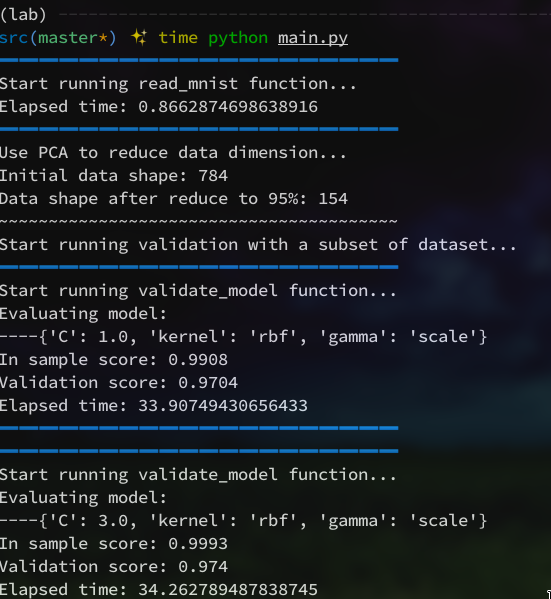
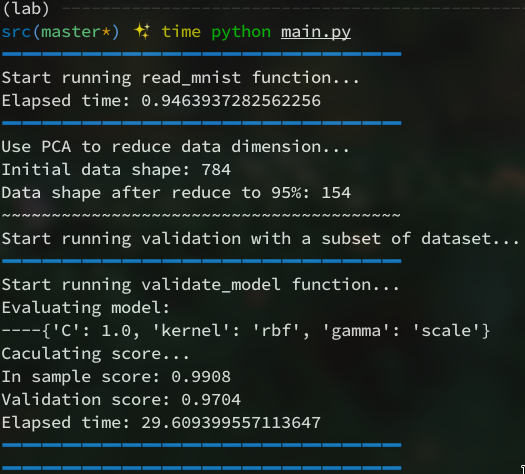
train validation set also

diff --git a/src/main.py b/src/main.py
@@ -44,18 +44,24 @@ for config in configs:
 print(f"The best model with respect to config\n----{best_config}\nwhich have validation score: {best_score}")
 print(f"{'~'*40}\nStart trainning 'best' model after validation with all dataset")
 
+print(f"{'~'*40}\nCombine test set and validation set to train...")
+total_train_X = np.r_[train_X, val_X]
+total_train_y = np.r_[train_y, val_y]
 
 print(f"{'~'*40}\nDeskew image for better result...")
-deskewed_train = deskew_vectorize(train_X)
+deskewed_train = deskew_vectorize(total_train_X)
 deskewed_test = deskew_vectorize(test_X)
-print(f"{'~'*40}\nUse best model to train...")
-print("The final result❓❓🤔🤔🤔")
-score, clf = validate_model(best_config, deskewed_train, y_train, deskewed_test, test_y, 50_000, 10_0000, print_in_sample_score=False)
+
+print("The final result..................🤔🤔🤔❓")
+score, clf = validate_model(best_config, deskewed_train, total_train_y, deskewed_test, test_y, 60_000, 10_000, print_score=False)
 print("===========>", score)
 
 # Plot some missclassify image
+print("About to plot some wrong classify sample, control+C to stop...")
 predict_y = clf.predict(deskewed_test)
 idx = np.argwhere(predict_y != test_y)
+plt.xticks([])
+plt.yticks([])
 for i in idx:
     plt.imshow(test_X[i].reshape(28, 28), cmap="gray")
     plt.title(f"Correct label {test_y[i]}, predicted label {predict_y[i]}")

diff --git a/src/helpers.py b/src/helpers.py
@@ -64,7 +64,7 @@ def pca_fit(X, infomation_presever=.95):
 
 
 @timing
-def validate_model(param, X_train, y_train, X_val, y_val, N_train=10_000, N_val=10_000, print_in_sample_score=True):
+def validate_model(param, X_train, y_train, X_val, y_val, N_train=10_000, N_val=10_000, print_score=True):
     """Validate SVM model"""
     print(f"Evaluating model:\n----{param}")
     X_train = X_train[:N_train]
@@ -73,9 +73,9 @@ def validate_model(param, X_train, y_train, X_val, y_val, N_train=10_000, N_val=
     y_val = y_val[:N_val]
     clf = SVC(**param)
     clf.fit(X_train, y_train)
+    print("Caculating score...")
     score = clf.score(X_val, y_val)
-    print("Caculating score:")
-    if print_in_sample_score:
+    if print_score:
         print("In sample score:", clf.score(X_train, y_train))
-    print("Validation score:", score)
+        print("Validation score:", score)
     return score, clf

diff --git a/README.md b/README.md
@@ -1,5 +1,5 @@
 # SVM for MNIST dataset
-> Simple python implementation with sklearn library for MNIST dataset, which achive more than 98% accuracy
+> Simple python implementation with sklearn library for MNIST dataset, which achive more than 98% accuracy 🎉🎉🎉🎉🎉
 
 ## Fast validation
 We use PCA to reduce input dimension from 784 to 154 but presever 95% information
@@ -8,6 +8,9 @@ We use only a subset of input set to validate to make validation process even fa
 
 ## Preprocess
 We use deskew method as preprocess method when we train the finally model for better accuracy
+
+## Final hypothesis
+After using 10_000 samples for validation, we combine it to 50_000 training samples to to train the final hypothesis. Make the best result possible
 
 
 ## Install dependencies with pip
@@ -48,5 +51,5 @@ The unittest haven't been written yet 😅😅
 
 1512587@student.hcmus.edu.vn
 
-## License
+## License ©
 [MIT](https://choosealicense.com/licenses/mit/)
